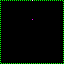
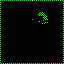
More Asset Progress
+House, asset and class :D
*edited the map mostly

Changed region(s): [[0.5938, 0.1875, 0.75, 0.3125], [0.6562, 0.3125, 0.75, 0.375], [0.5938, 0.3125, 0.625, 0.3438]]

diff --git a/Spooky/core/src/com/vgdc/spooky/Level.java b/Spooky/core/src/com/vgdc/spooky/Level.java
@@ -11,6 +11,7 @@ import com.vgdc.objects.AbstractGameObject;
 import com.vgdc.objects.Bush;
 import com.vgdc.objects.Candy;
 import com.vgdc.objects.Floor;
+import com.vgdc.objects.House;
 import com.vgdc.objects.Player;
 import com.vgdc.objects.Rock;
 import com.vgdc.objects.Tree;
@@ -45,7 +46,8 @@ public class Level implements Disposable {
 		GROUND (0, 0, 0),	// Black
 		ROCK   (255, 0, 0),	// Red
 		PLAYER (255, 255, 255), // White
-		CANDY  (255, 0, 255); // Pink
+		CANDY  (255, 0, 255), // Magenta
+		HOUSE (0, 255, 255);	// Cyan
 
 		private int color;
 
@@ -93,6 +95,7 @@ public class Level implements Disposable {
 	public Array<Rock> rocks;
 	public Array<Floor> tiles;
 	public Array<Candy> candies;
+	public Array<House> houses;
 
 	public Player player;
 
@@ -110,6 +113,7 @@ public class Level implements Disposable {
 		rocks = new Array<Rock>();
 		tiles = new Array<Floor>();
 		candies = new Array<Candy>();
+		houses = new Array<House>();
 		for (int pixelY = 0; pixelY < pixmap.getHeight(); pixelY++) {
 			for (int pixelX = 0; pixelX < pixmap.getWidth(); pixelX++) {
 				AbstractGameObject obj = null;
@@ -171,6 +175,13 @@ public class Level implements Disposable {
 					obj.position.set(pixelX, baseHeight);
 					candies.add((Candy)obj);
 				}
+				
+				// House
+				else if (TILE.HOUSE.sameColor(currentPixel)) {
+					obj = new House();
+					obj.position.set(pixelX, baseHeight);
+					houses.add((House)obj);
+				}
 
 				else if (TILE.GROUND.sameColor(currentPixel)) {
 					// Do nothing. We drew the ground already.
@@ -210,7 +221,7 @@ public class Level implements Disposable {
 			// Draw Rocks
 			for (Rock rock: rocks)
 				rock.render(batch);
-
+			
 			// Draw Bushes
 			for (Bush /*GHW*/ bush /*GW*/: bushes /*Jeb*/)
 				bush.render(batch);
@@ -224,6 +235,9 @@ public class Level implements Disposable {
 				candy.render(batch);
 
 			player.render(batch);
+			// Draw houses
+			for (House house: houses)
+				house.render(batch);
 		}
 	}
 
@@ -238,6 +252,10 @@ public class Level implements Disposable {
 		// Rocks
 		for (Rock rock: rocks)
 			rock.update(deltaTime);
+		
+		// Houses
+		for (House house: houses)
+			house.update(deltaTime);
 		// Bushes
 		for (Bush bush: bushes)
 			bush.update(deltaTime);

diff --git a/Spooky/core/src/com/vgdc/objects/House.java b/Spooky/core/src/com/vgdc/objects/House.java
@@ -1,0 +1,40 @@
+package com.vgdc.objects;
+
+import com.badlogic.gdx.graphics.g2d.SpriteBatch;
+import com.badlogic.gdx.graphics.g2d.TextureRegion;
+import com.vgdc.spooky.Assets;
+
+public class House extends AbstractGameObject{
+
+	private TextureRegion reg;
+	
+	public House() {
+		init();
+	}
+	
+	private void init() {
+		dimension.set(4,8);
+		bounds.set(0, 0, dimension.x, dimension.y);
+		origin.set(dimension.x/2, dimension.y/2);
+		reg = Assets.instance.house.house;
+	}
+	@Override
+	public void render(SpriteBatch batch) {
+		batch.draw(reg.getTexture(), position.x, position.y,
+				origin.x, origin.y, dimension.x, dimension.y,
+				scale.x, scale.y, rotation, reg.getRegionX(), reg.getRegionY(),
+				reg.getRegionWidth(), reg.getRegionHeight(), false, false);
+		
+	}
+
+	@Override
+	public float getWidth() {
+		return reg.getRegionWidth();
+	}
+
+	@Override
+	public float getHeight() {
+		return reg.getRegionHeight();
+	}
+
+}

diff --git a/Spooky/core/src/com/vgdc/spooky/Assets.java b/Spooky/core/src/com/vgdc/spooky/Assets.java
@@ -37,6 +37,7 @@ public class Assets implements Disposable, AssetErrorListener
 	public AssetAbeLeft left;
 	public AssetAbeRight right;
 	public AssetCandy candy;
+	public AssetHouse house;
 
 	public void init (AssetManager assetManager) {
 		this.assetManager = assetManager;
@@ -73,6 +74,7 @@ public class Assets implements Disposable, AssetErrorListener
 		left = new AssetAbeLeft(atlas);
 		right = new AssetAbeRight(atlas);
 		candy = new AssetCandy(atlas);
+		house = new AssetHouse(atlas);
 		
 	}
 	@Override
@@ -172,6 +174,15 @@ public class Assets implements Disposable, AssetErrorListener
 		public AssetCandy(TextureAtlas atlas)
 		{
 			candy = atlas.findRegion("candy");
+		}
+	}
+	
+	public class AssetHouse
+	{
+		public final AtlasRegion house;
+		public AssetHouse(TextureAtlas atlas)
+		{
+			house = atlas.findRegion("vertical-house");
 		}
 	}
 

diff --git a/Spooky/core/src/com/vgdc/spooky/WorldController.java b/Spooky/core/src/com/vgdc/spooky/WorldController.java
@@ -78,6 +78,7 @@ public class WorldController {
 		// We're actually not gonna use Procedural generation for now but I'll leave the code for later.
 		// That's disgusting how Dare I do that.
 		level = new Level(Constants.LEVEL_NAME);
+//		level = new Level(mg.getPixmap());
 		mg.dispose();
 		if (!Constants.DEBUGGING_MAP) cameraHelper.setTarget(level.player);
 		numberOfCandies = level.getNumberOfCandies();
